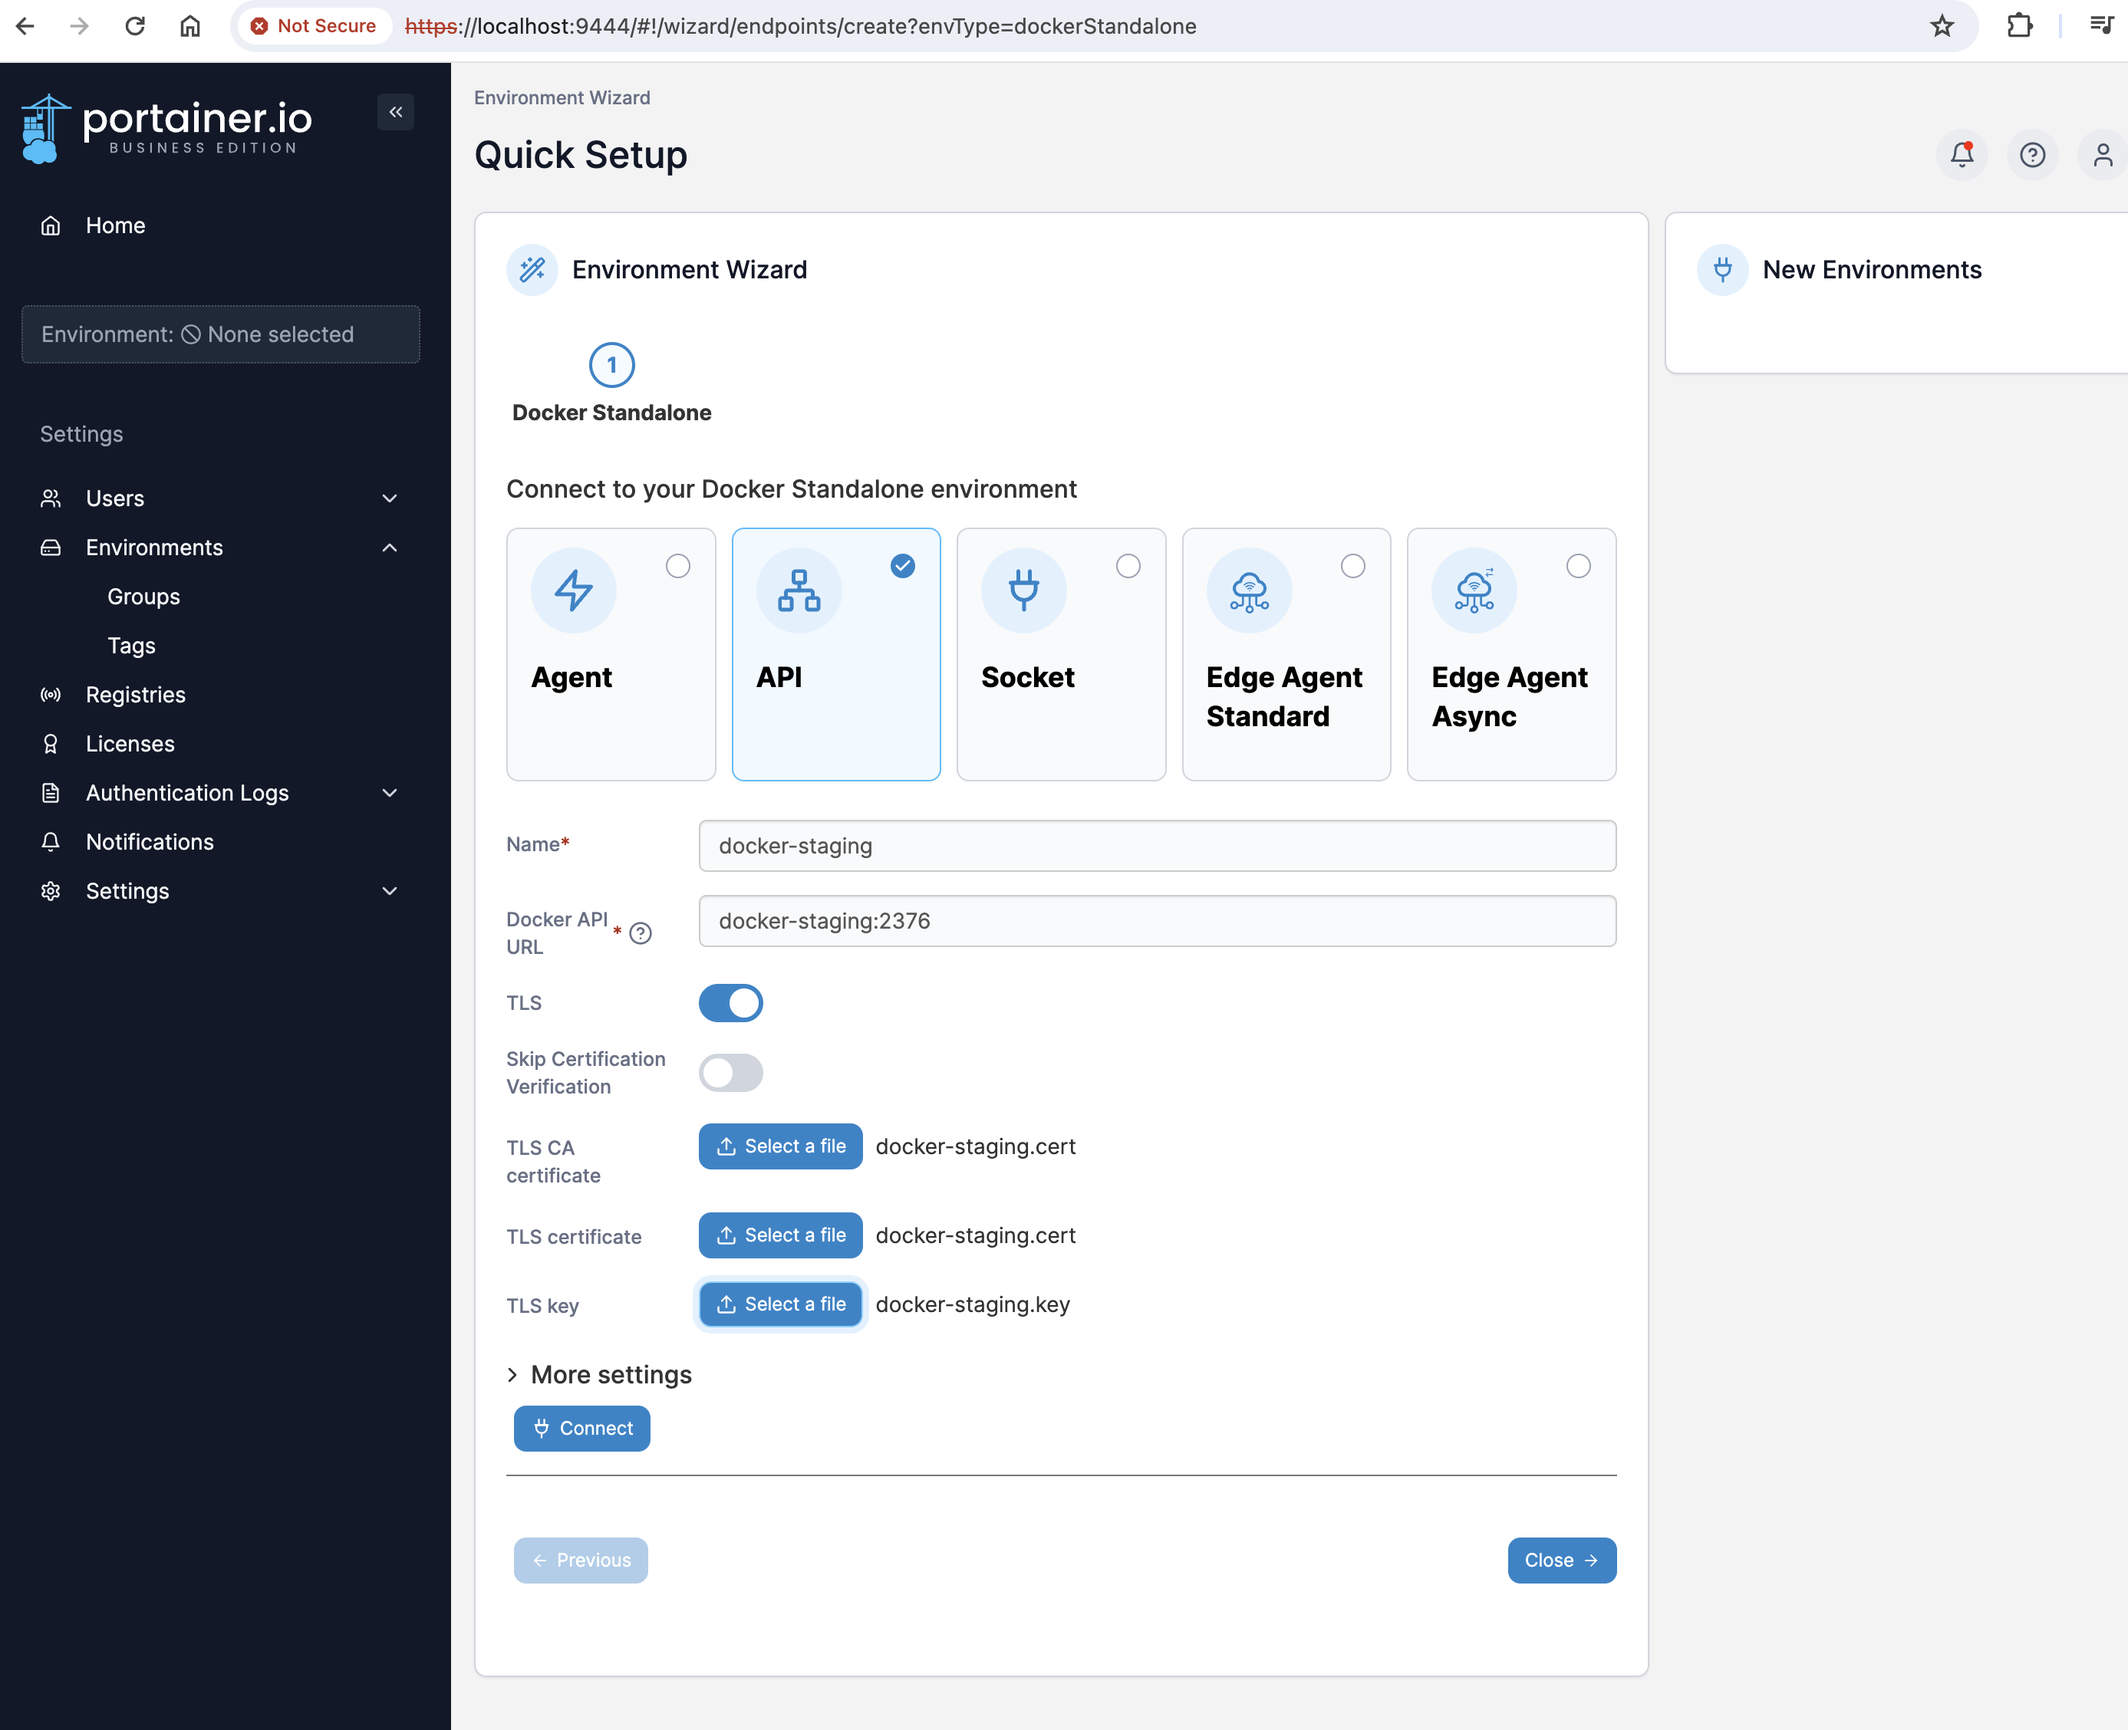
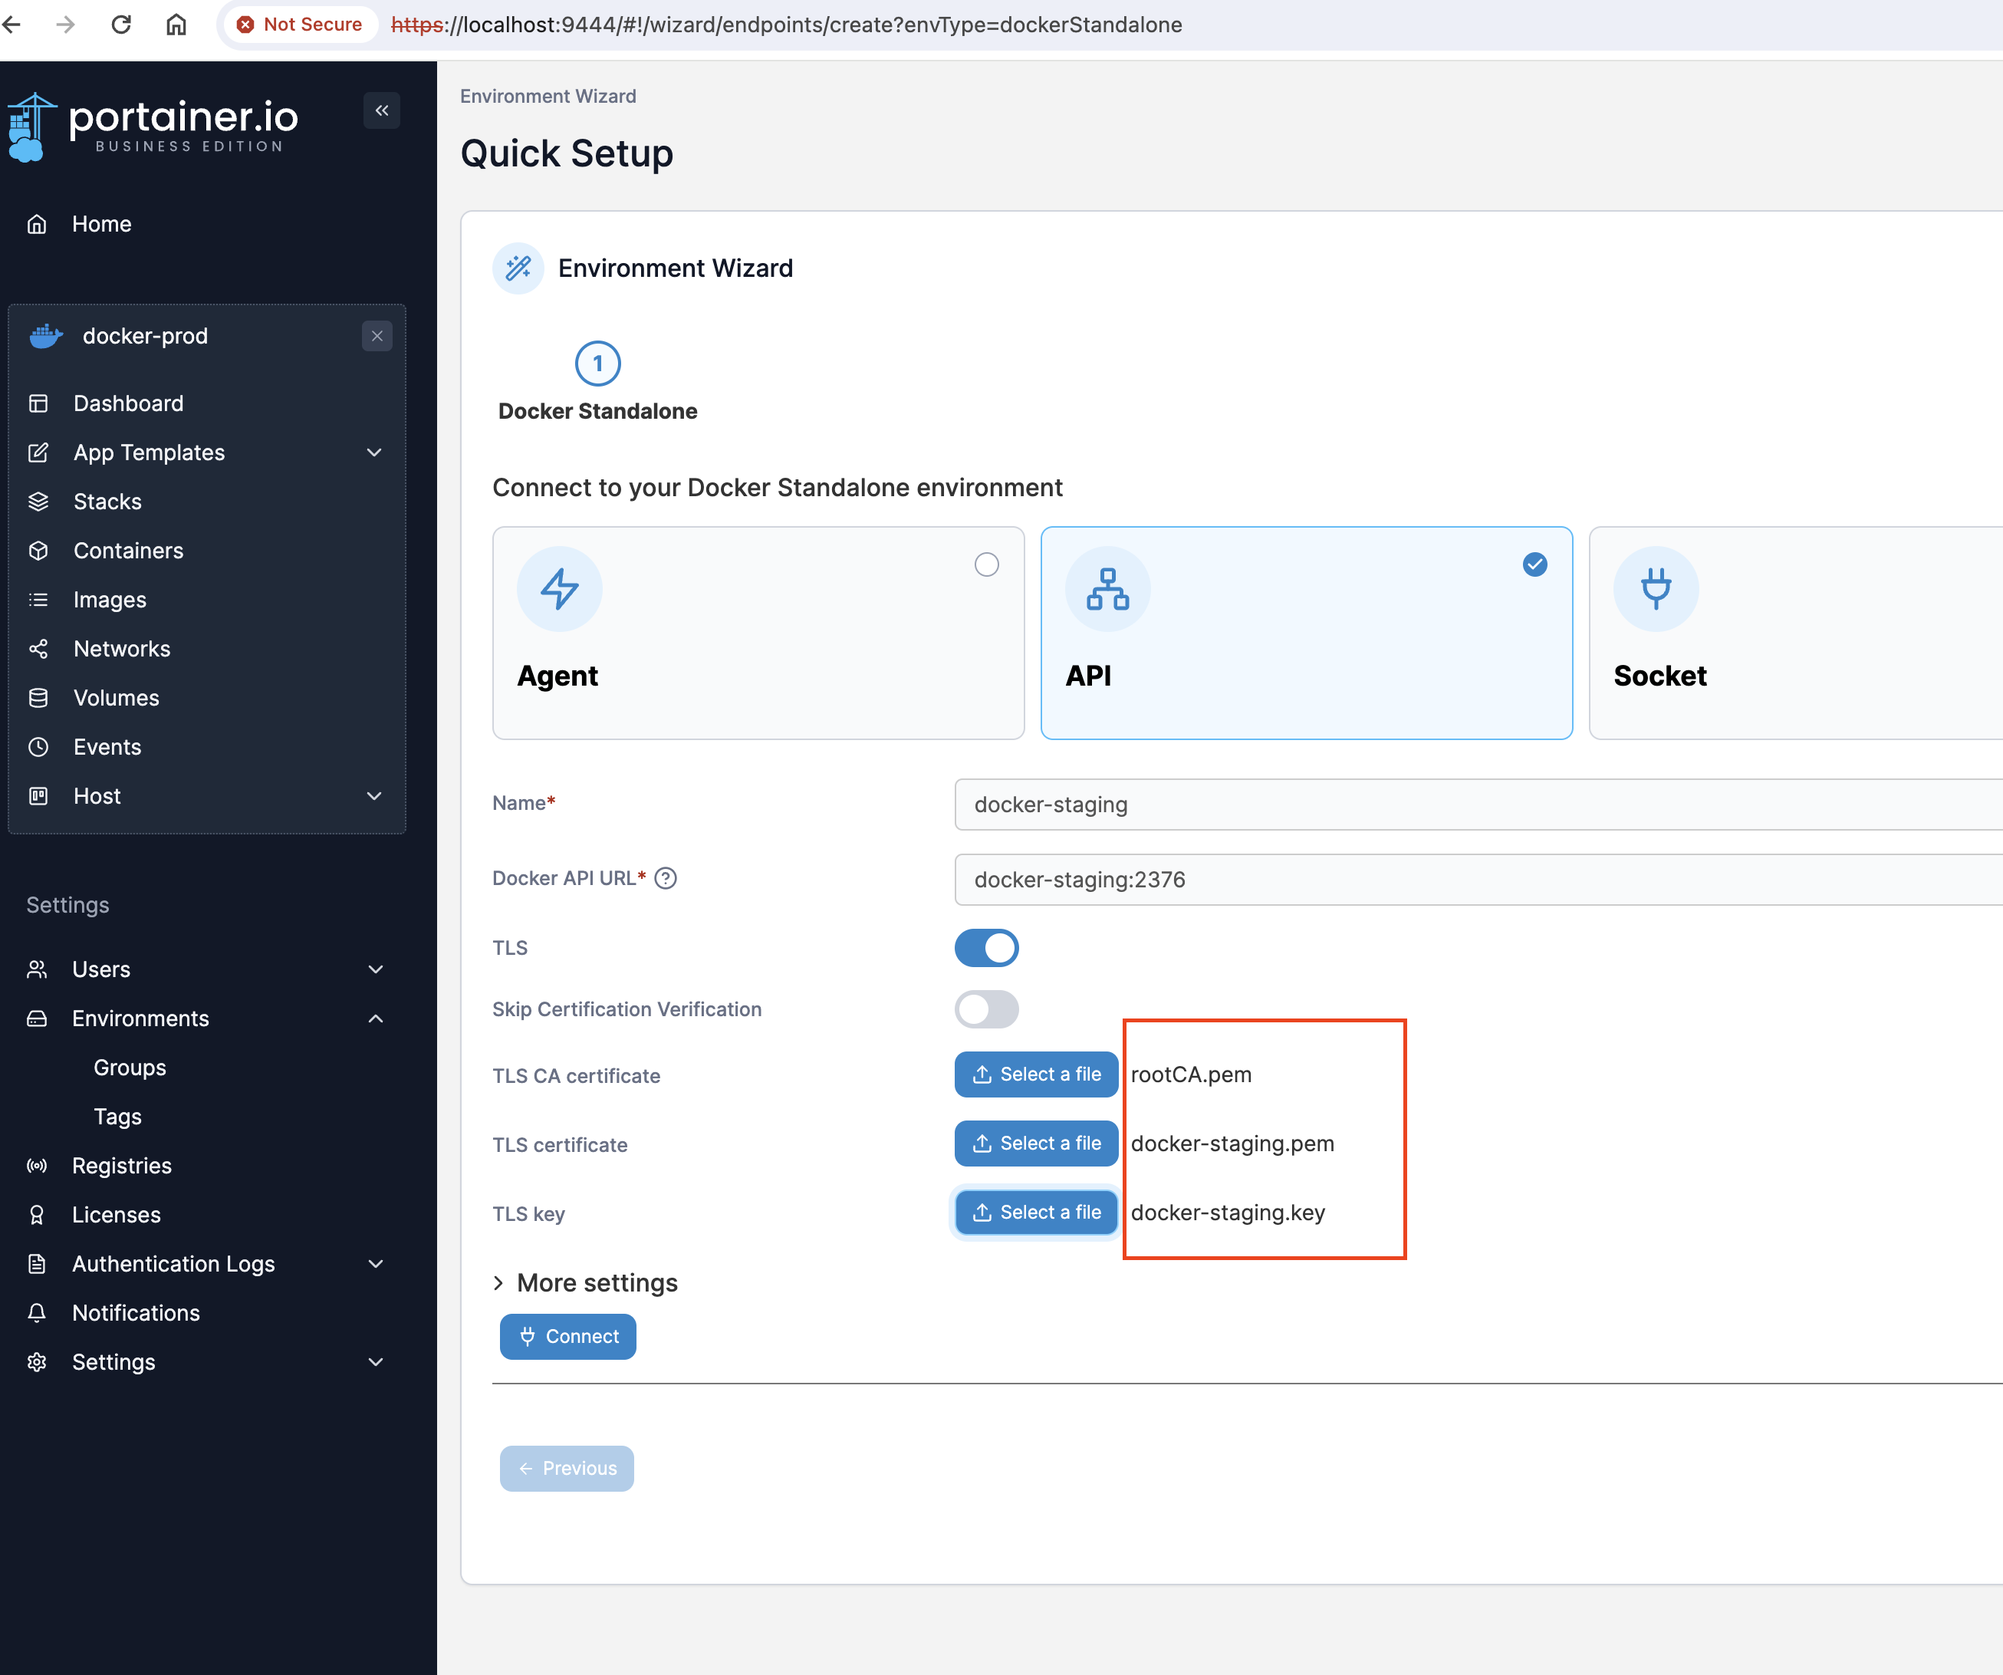
fix certificate issues in push action

diff --git a/lab-setup/one-host/README.md b/lab-setup/one-host/README.md
@@ -15,7 +15,6 @@ chmod +x setup.sh
     - registry-1 (Container running a service registry)
     - registry-2 (Container running a service registry)
     - registry-3 (Container running a service registry)
-    - developer (Container running a basic service, used to test the push and get images)
     - docker-staging (Container running a Docker in Docker service, the objective its to serve the containers of stating environment)
     - docker-prod (Container running a Docker in Docker service, the objective its to serve the containers of stating environment)
 ```docker
@@ -28,13 +27,14 @@ docker compose up
     - registry-2
     - registry-3
     Using the web interface remember the port should be 5000. (Please check the attached images for details) 
-    - After you added the registry click on **Browse** you will see and error **Registry management configuration required** Click in the option **"Configure this registry"** -> Enable TLS and use the registry-1.cert and registry-1.key created at step 3, each container will have their own certificate and key.
+    - After you added the registry click on **Browse** you will see and error **Registry management configuration required** Click in the option **"Configure this registry"** -> Enable TLS and use the registry-1.cert and registry-1.key created at step 3, each container will have their own certificate and key. **TLS CA Certificate always use rootCA.pem**
 
-8. Go to Environments option in **Portainer.io (localhost:9444)** and add the two containers (docker-staging, docker-prod) use the option **Docker Standalone** -> **API** you will need to active TLS verification and use the certificates created at step 3.
+8. Go to Environments option in **Portainer.io (localhost:9444)** and add the two containers (docker-staging, docker-prod) use the option **Docker Standalone** -> **API** you will need to active TLS verification and use the certificates created at step 3.**TLS CA Certificate always use rootCA.pem**
+
 9. After following the previous steps your will have:
     - Portainer service managing:
         - 3 Registries (Secure Traffic SSL)
         - 2 Environments (Secure Traffic SSL)
 
 ## Notes:
-The docker-compose file will create in the same directory a directory called "data" inside this object al persistent information will be saved permanently even if the containers are stopped or deleted.
+Please remember to select one environment in portainer (Do not use local).
